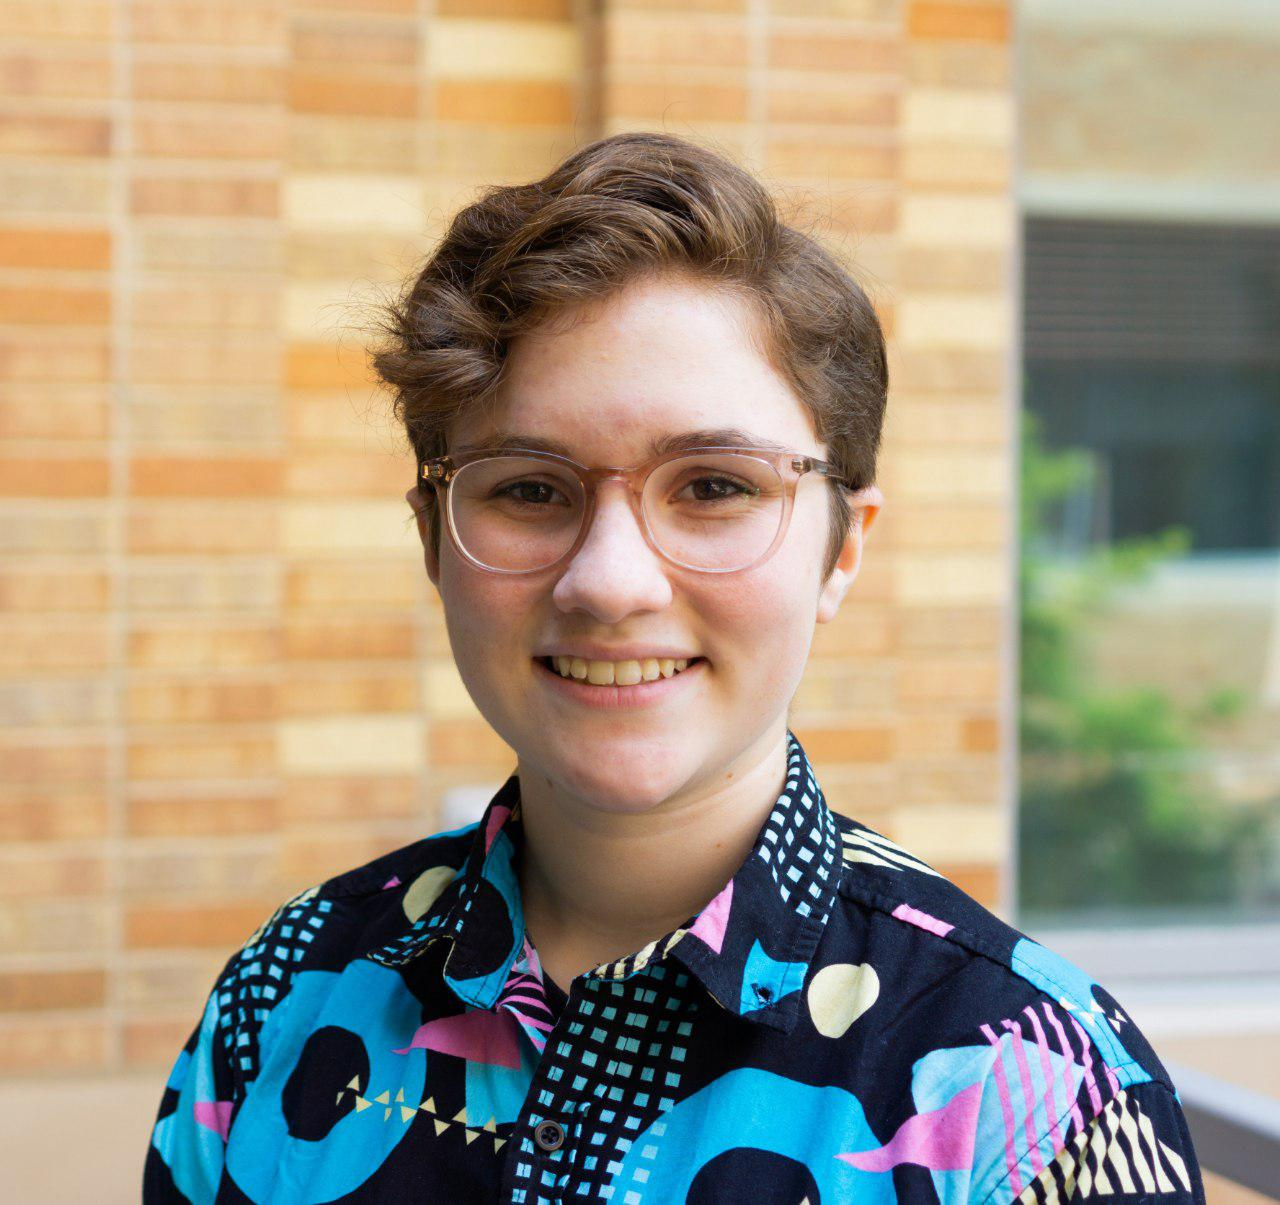
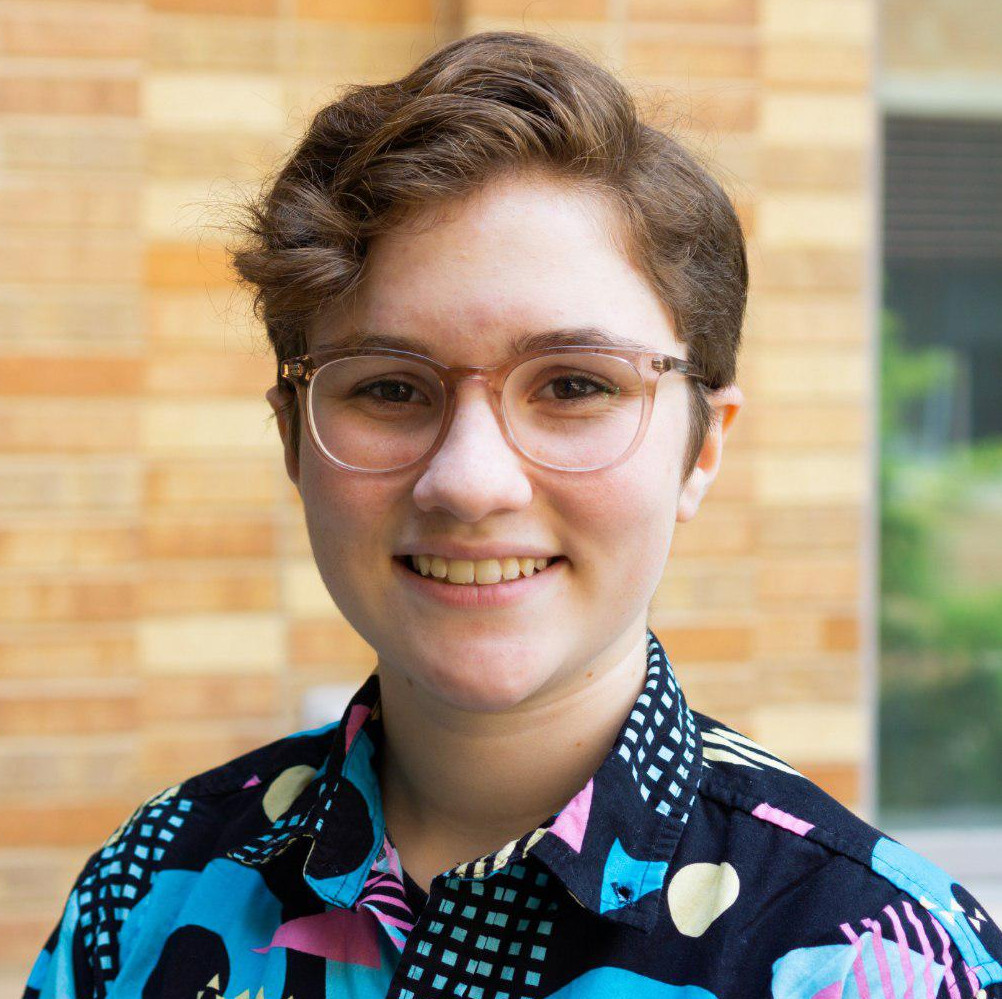
Added hover profile image

diff --git a/index.html b/index.html
@@ -27,7 +27,7 @@
     	<li><a target="_parent" href="https://cs.utexas.edu/~abellon/graphicdesign.html"> graphic design </a></li>
   	</ul>
   	<div>
-		<img class="logo"  src="images/profile_square.jpg" width=30%>
+		<img class="logo"  src="images/profile_square.jpg" onmouseover="this.src='images/head.jpg';" onmouseout="this.src='images/profile_square.jpg';" width=30%>
   	</div>
   	<div>
     	<h1> Hi, my name is Alex Bellon </h1>
